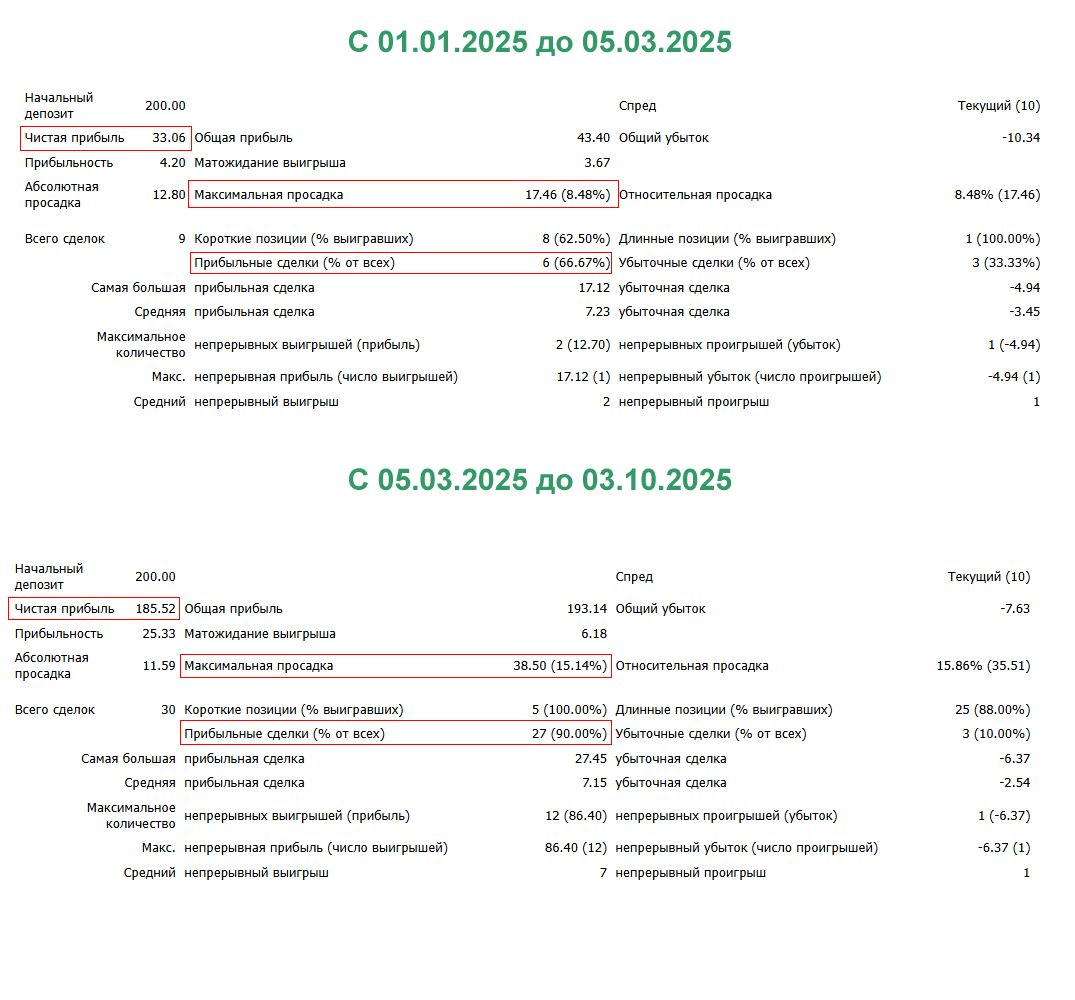
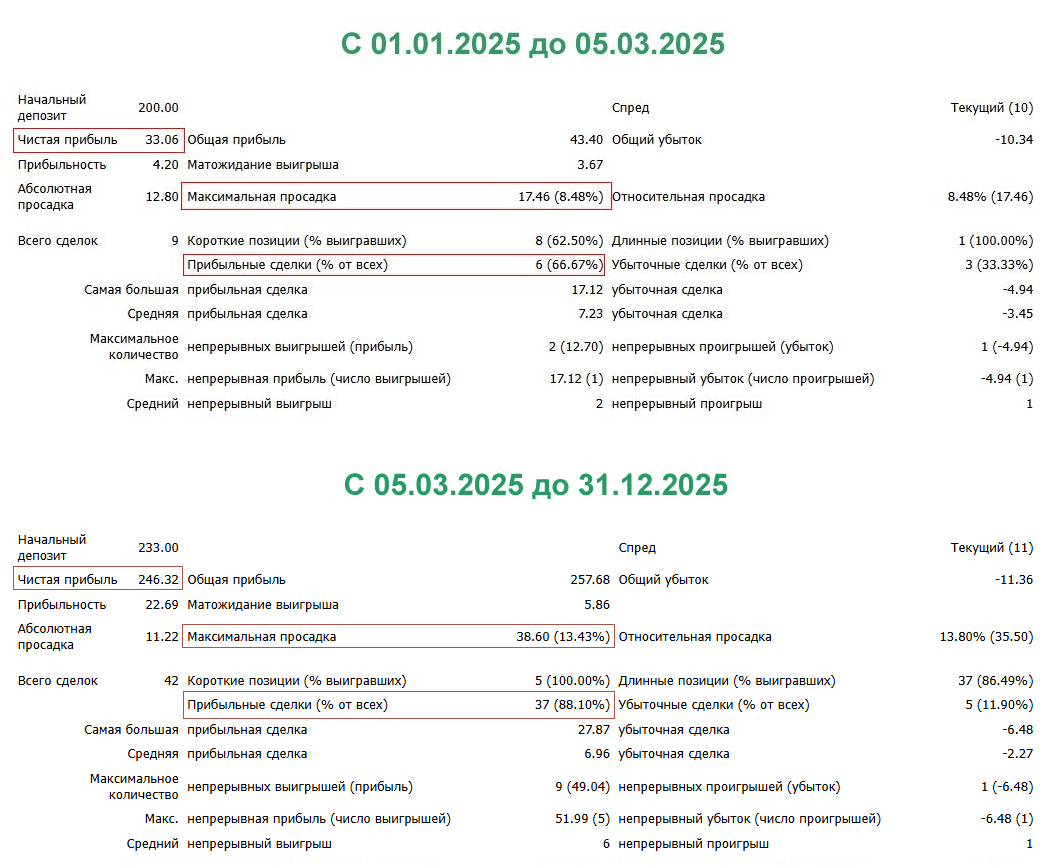
Changes

diff --git a/src/components/AdvisorSection.tsx b/src/components/AdvisorSection.tsx
@@ -142,13 +142,13 @@ export function AdvisorSection({ onOpenEmailForm }: AdvisorSectionProps) {
             Результат торговли советника (эксперта) <span className="gradient-text">PROSSFX</span> в 2025 году
           </h3>
           <p className="text-lg text-center text-muted-foreground mb-8">
-            Совокупная чистая прибыль составила <span className="text-primary font-bold">218.58 USD</span> при начальном депозите 200 USD — это рост капитала более чем на <span className="text-primary font-bold">109%</span> без участия трейдера!
+            Совокупная чистая прибыль по результатам торговли в 2025 году составила <span className="text-primary font-bold">279.38 USD</span> при начальном депозите 200 USD — это рост капитала на <span className="text-primary font-bold">140%</span>, полностью в автоматическом режиме! Увеличение депозита в <span className="text-primary font-bold">2.4 раза</span>!
           </p>
           
           <div className="relative rounded-2xl overflow-hidden mb-8">
             <img
               src={resultsImage}
-              alt="Результаты торговли советника PROSSFX в 2025 году"
+              alt="Результат работы советника PROSSFX в 2025 году"
               className="w-full h-auto"
             />
           </div>

diff --git a/src/components/Footer.tsx b/src/components/Footer.tsx
@@ -96,8 +96,7 @@ export function Footer() {
             © 2025 PROSSFX. Все права защищены.
           </p>
           <p className="text-xs text-muted-foreground max-w-4xl mx-auto">
-            Дисклеймер: Торговля на Форекс сопряжена с высокими рисками и может привести к потере капитала. 
-            Прошлые результаты не гарантируют будущих доходов. Всегда оценивайте свои риски.
+            Дисклеймер: Сайт prossfx.ru не является форекс-брокером и не предоставляет услуги торговли на финансовых рынках. Торговля на Форекс сопряжена с высокими рисками и может привести к потере капитала. Прошлые результаты не гарантируют будущих доходов. Всегда оценивайте свои риски.
           </p>
         </motion.div>
       </div>

diff --git a/src/components/AboutSection.tsx b/src/components/AboutSection.tsx
@@ -54,7 +54,7 @@ export function AboutSection() {
             <div className="glass rounded-2xl p-8 space-y-6">
               <div className="flex items-center gap-4">
                 <div className="w-16 h-16 rounded-xl bg-primary/20 flex items-center justify-center">
-                  <span className="text-3xl font-display font-bold gradient-text">19+</span>
+                  <span className="text-3xl font-display font-bold gradient-text">20+</span>
                 </div>
                 <div>
                   <span className="text-xl font-bold text-foreground">Лет опыта</span>

diff --git a/src/components/HeroSection.tsx b/src/components/HeroSection.tsx
@@ -63,7 +63,7 @@ export function HeroSection({ onOpenEmailForm }: HeroSectionProps) {
             </div>
             <div className="hidden sm:block w-px h-16 bg-gray-300" />
             <div className="text-center">
-              <span className="block text-4xl md:text-5xl font-display font-bold text-destructive">19+</span>
+              <span className="block text-4xl md:text-5xl font-display font-bold text-destructive">20+</span>
               <span className="text-gray-600">лет опыта</span>
             </div>
           </div>
